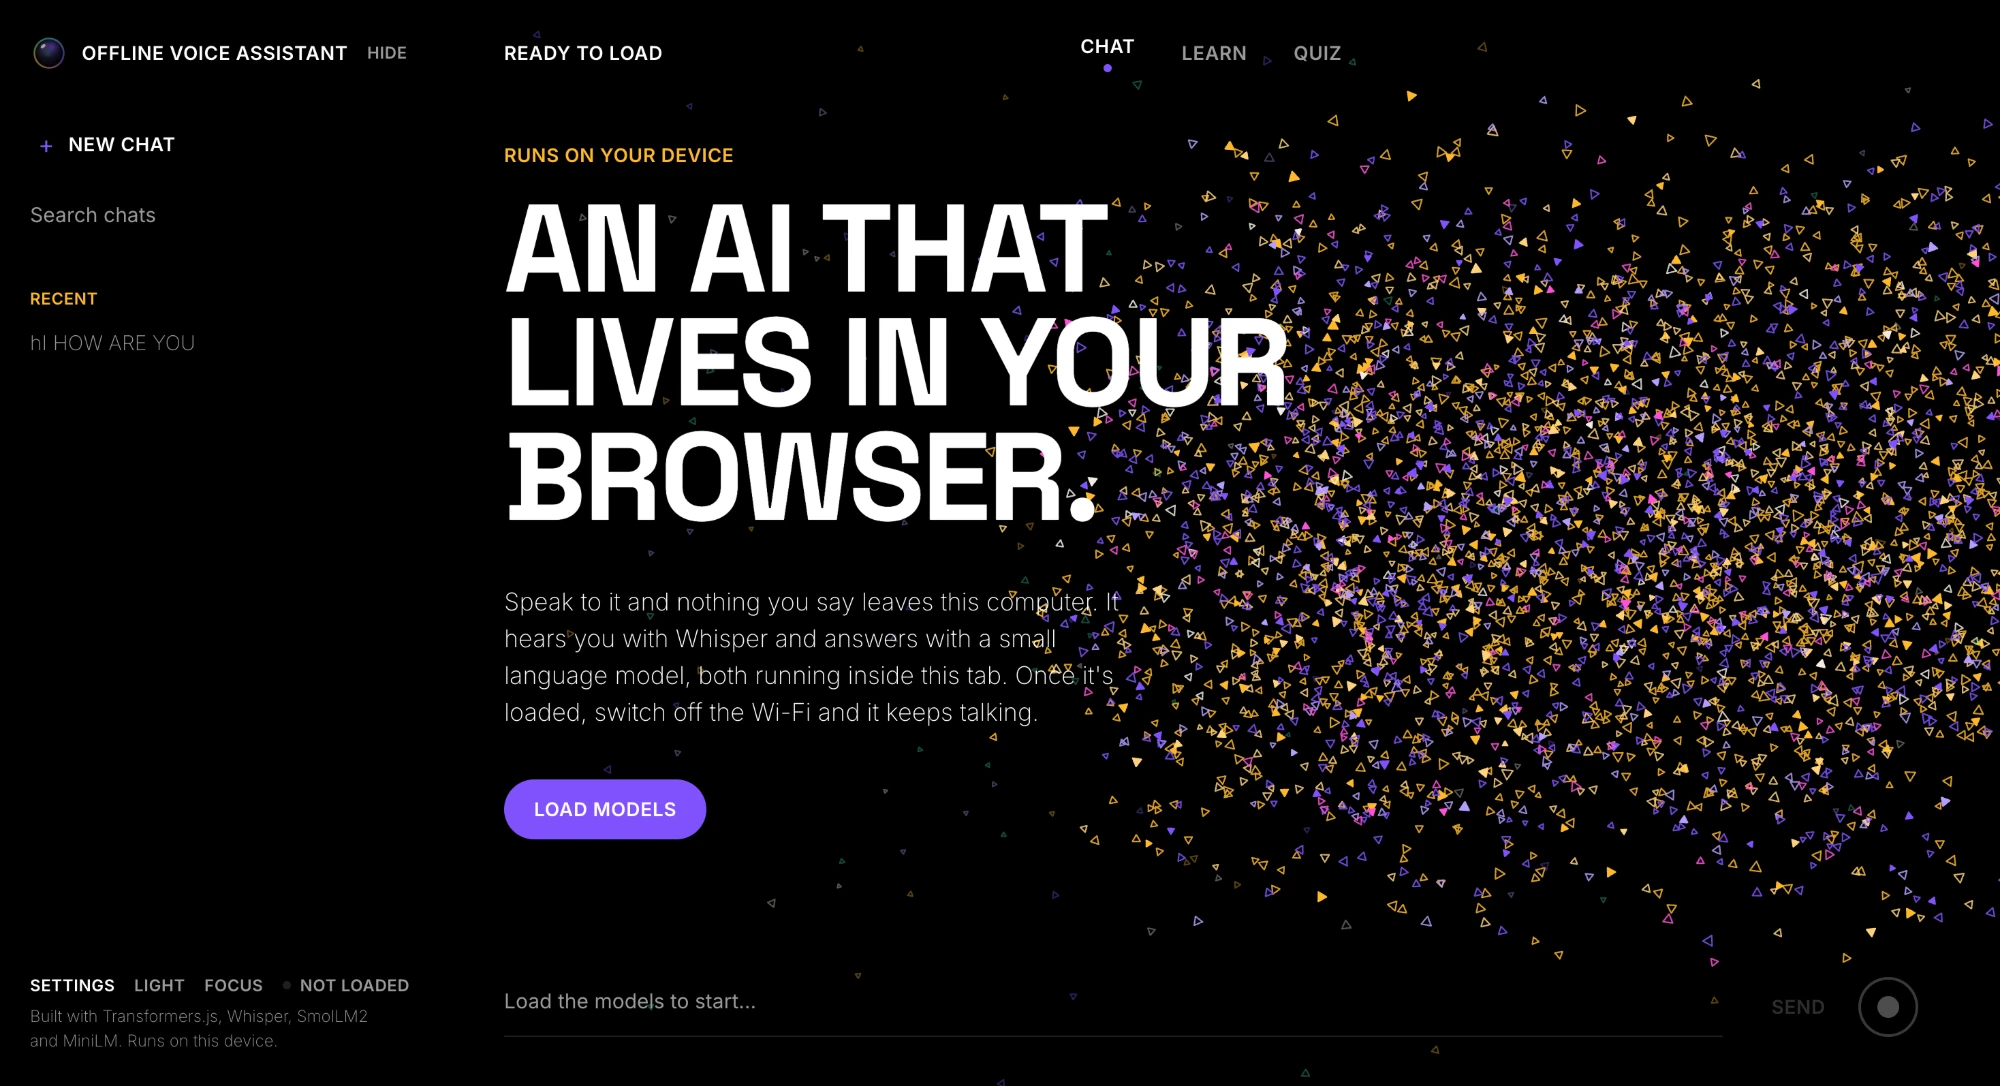
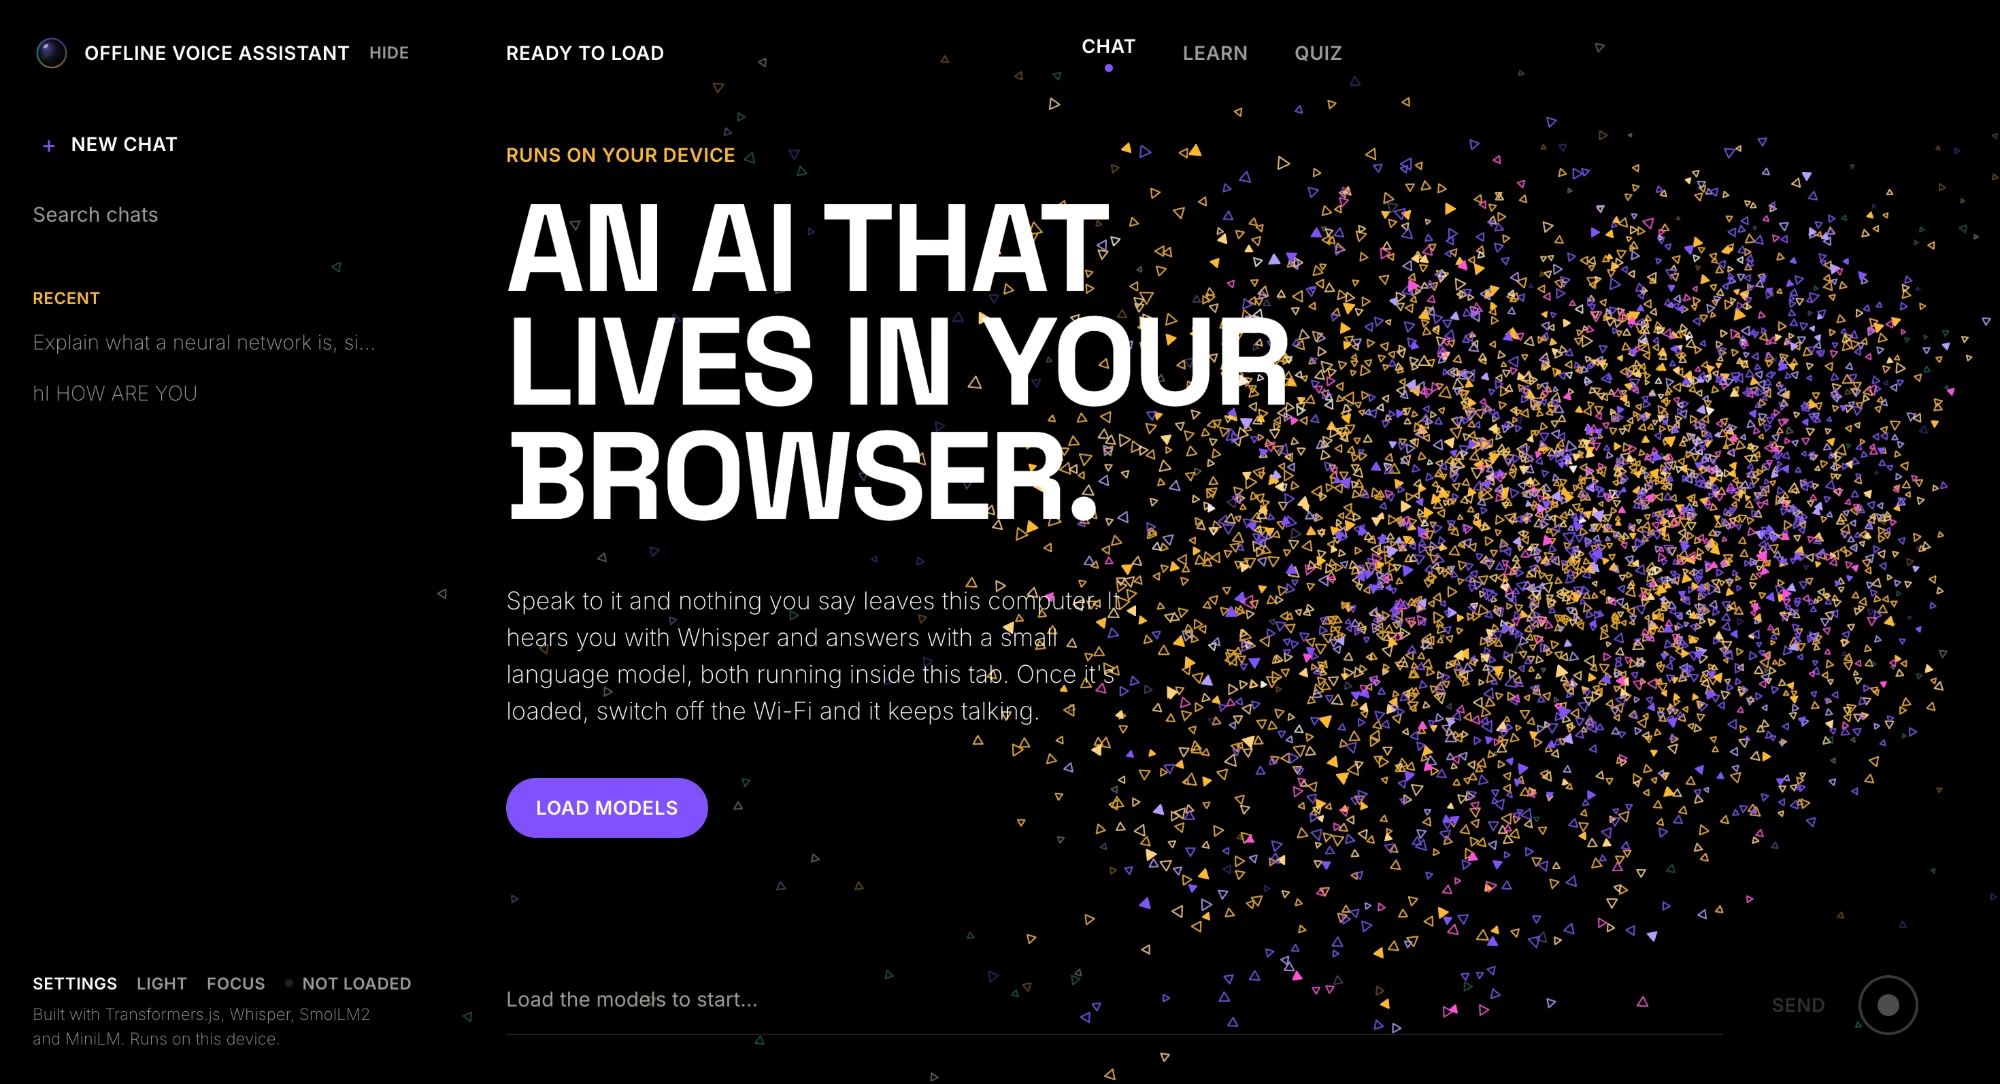
Simplify screenshot captions

diff --git a/README.md b/README.md
@@ -4,16 +4,16 @@ A voice assistant that runs **entirely in your browser**. Speech recognition, th
 search over your notes all run on your own device. There is no AI server, no account and no API key, and once
 the models have loaded you can switch off the Wi-Fi and it keeps working.
 
-![Start page: the particle globe forms while the models download](screenshots/01-start-page.webp)
+![Start page](screenshots/01-start-page.webp)
 
 ## Screenshots
 
 | | |
 | --- | --- |
-| ![Chat mode with the particle globe](screenshots/02-chat-globe.webp) | ![Learn mode with the particle brain and the notes uploader](screenshots/03-learn-brain.webp) |
-| **Chat**: click anywhere to change the shape (globe, light bulb, cube, hexagon) | **Learn**: upload your own notes and ask about them |
-| ![Quiz mode with the particle question mark](screenshots/04-quiz-question-mark.webp) | ![A conversation, with the particles spread out behind it](screenshots/05-conversation.webp) |
-| **Quiz**: questions from your notes, marked by meaning | **Conversation**: the shape bursts into a slow field behind the chat |
+| ![Chat](screenshots/02-chat-globe.webp) | ![Learn](screenshots/03-learn-brain.webp) |
+| **Chat** | **Learn** |
+| ![Quiz](screenshots/04-quiz-question-mark.webp) | ![Conversation](screenshots/05-conversation.webp) |
+| **Quiz** | **Conversation** |
 
 ## What it does
 
@@ -21,7 +21,6 @@ the models have loaded you can switch off the Wi-Fi and it keeps working.
 - **Learn**: upload your own PDFs or text notes and ask questions about them. Answers come only from your notes and show the page they used.
 - **Quiz**: it writes questions from your notes and marks your answers by meaning, not exact words.
 - **Focus mode** keeps the background almost still; light and dark themes.
-- A particle animation reacts to what the assistant is doing and spreads out behind the conversation.
 
 ## How it works
 
